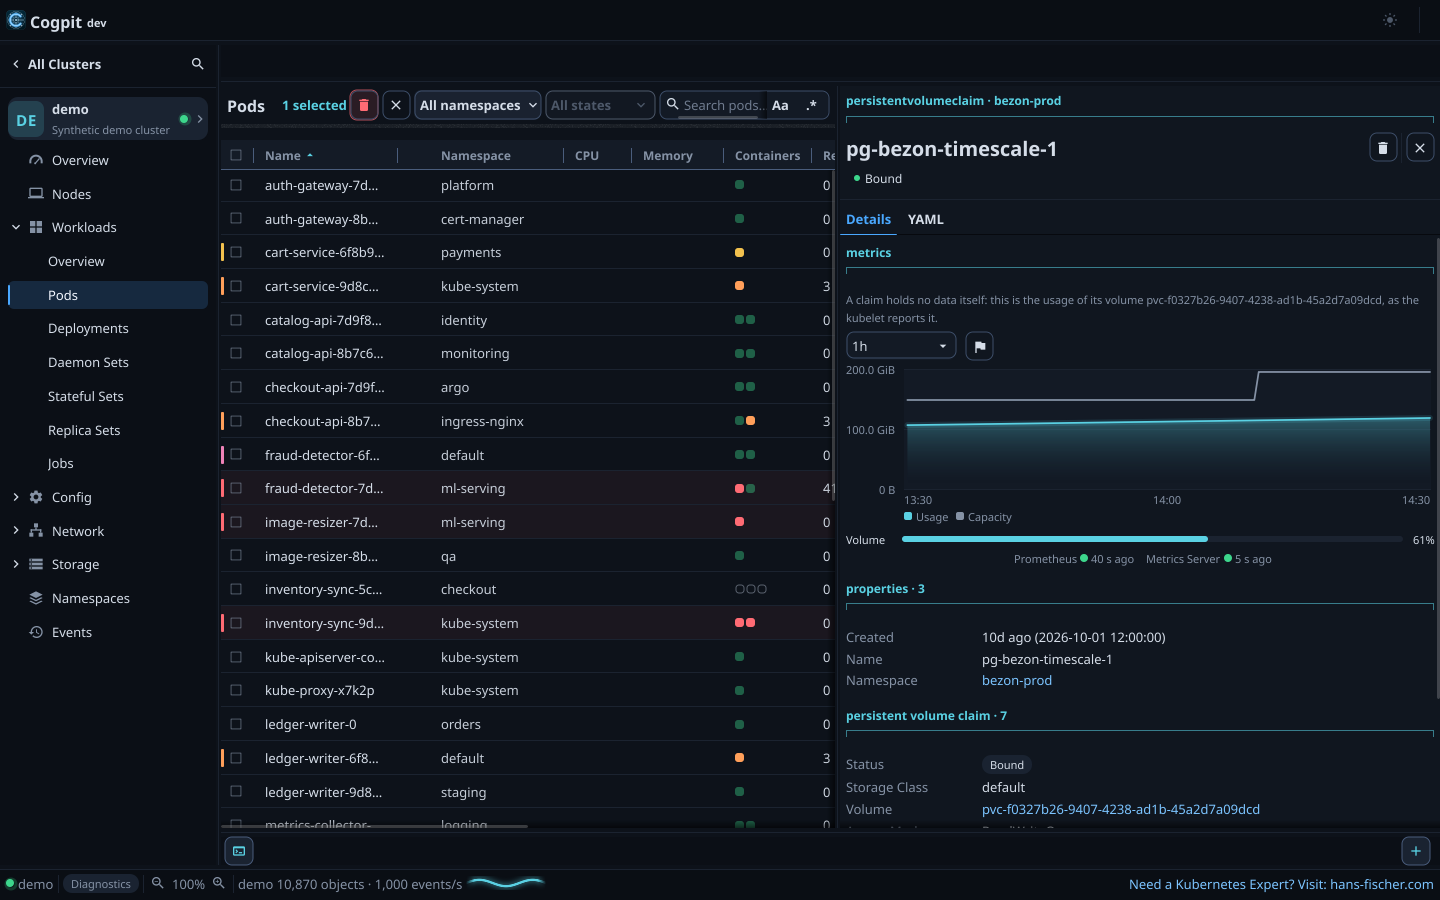
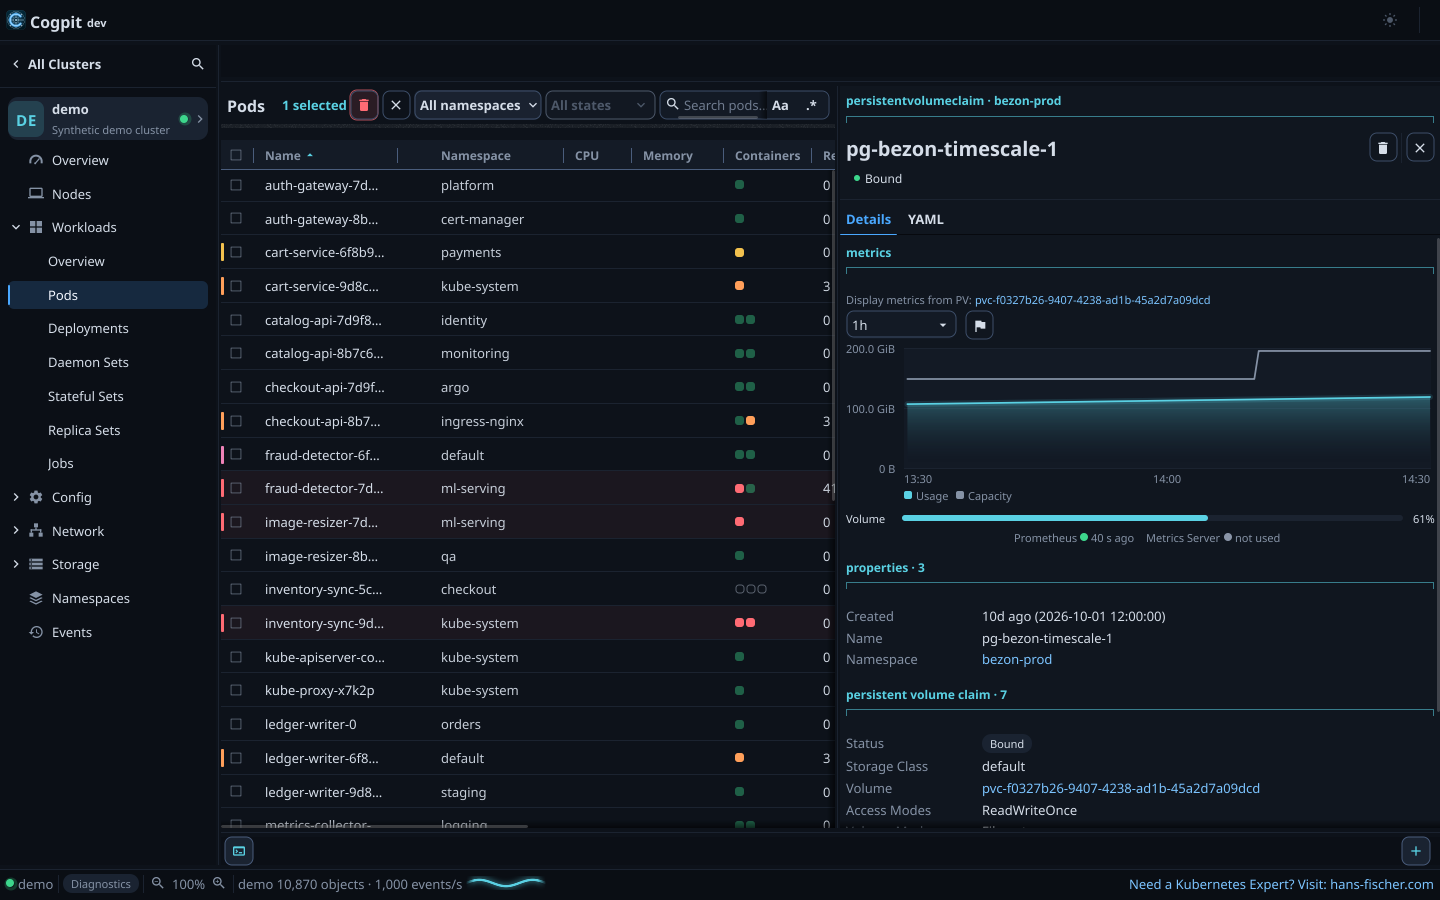
feat(volumes): the line above a volume's chart names the other object as a link, the Metrics Server not used
A claim's drawer says "Display metrics from PV: <volume>", a volume's
"Display metrics from PVC: <namespace>/<claim>", the name a link to its
drawer. The source row under a volume's chart shows the Metrics Server as
"not used" with a grey dot: a claim's scope never asks it, so "waiting"
waited for nothing (ProviderStatus.unused, Hub.ProvidersFor).

diff --git a/internal/ui/fyneui/metricsstatus.go b/internal/ui/fyneui/metricsstatus.go
@@ -22,9 +22,10 @@ import (
 // at the right, each as "<name> ● <when>": the dot in the cluster dots' colours (conndot.go: green
 // while it answers, red while it fails or may not be read, grey while it is not found, a grey ring
 // while nothing has asked it yet) and when it last answered ("30 s ago", "now"), else in a word why
-// not ("not answering", "no permission", "not found", "waiting"). Where it runs, what it serves
-// now, the last good answer and the last failure (a class, never a response body) are in each
-// one's tooltip. While one is not reachable its part of the row links to its section of Cluster
+// not ("not answering", "no permission", "not found", "waiting"), or "not used" with a grey dot
+// where the charts never ask it (the Metrics Server under a volume's: it measures no volume). Where
+// it runs, what it serves now, the last good answer and the last failure (a class, never a response
+// body) are in each one's tooltip. While one is not reachable its part of the row links to its section of Cluster
 // Settings (D-87): "Set its address…" for a Prometheus not found, "Settings…" otherwise; while both
 // answer the row holds nothing more. Before 2026-10-18 there were a source line in prose with the
 // Prometheus's namespace and service as links, a line per provider and a "Prometheus…" button;
@@ -162,9 +163,12 @@ var (
 )
 
 // providerDot is a metrics provider's dot: answering, failing (not answering, no permission), not
-// found, or not asked yet.
-func providerDot(s metrics.Status) dotLook {
-	switch s {
+// found or not used by these charts, or not asked yet.
+func providerDot(ps metrics.ProviderStatus) dotLook {
+	if ps.Unused {
+		return dotAbsent
+	}
+	switch ps.Status {
 	case metrics.StatusAvailable:
 		return dotAnswering
 	case metrics.StatusUnavailable, metrics.StatusForbidden:
@@ -262,6 +266,9 @@ func shortProviderName(label string) string {
 
 // providerWhen is the word after a provider's dot: when it last answered, else why not.
 func providerWhen(ps metrics.ProviderStatus, now time.Time) string {
+	if ps.Unused {
+		return "not used"
+	}
 	switch ps.Status {
 	case metrics.StatusAvailable:
 		if ps.LastOK.IsZero() {
@@ -278,9 +285,13 @@ func providerWhen(ps metrics.ProviderStatus, now time.Time) string {
 	return "waiting"
 }
 
-// providerLink is the link a provider not reachable offers to its settings, "" while it answers or
-// is not asked yet (WF25): a Prometheus not found by name needs its address.
+// providerLink is the link a provider not reachable offers to its settings, "" while it answers, is
+// not asked yet (WF25) or is not used by these charts: a Prometheus not found by name needs its
+// address.
 func providerLink(ps metrics.ProviderStatus) string {
+	if ps.Unused {
+		return ""
+	}
 	switch ps.Status {
 	case metrics.StatusNotServed:
 		if ps.Provider == metrics.PrometheusID {
@@ -306,22 +317,25 @@ func servesText(serves []string) string {
 }
 
 // providerTip is a provider's tooltip on the row: where it runs, its state, what it serves, the last
-// good answer and the last failure; the times of day in tf, the user's zone and format (D-31).
+// good answer and the last failure (only that it is not used, where it is not); the times of day in tf, the user's zone and format (D-31).
 func providerTip(ps metrics.ProviderStatus, now time.Time, tf model.TimeFormat) string {
 	name := ps.Label
 	if ps.Service != "" {
 		name += " " + ps.Service
 	}
+	if ps.Unused {
+		return name + "\nNot used here: it measures nothing these charts show."
+	}
 	since := func(t time.Time) string { return agoText(now.Sub(t)) }
 	var state string
-	switch ps.Status {
-	case metrics.StatusAvailable:
+	switch {
+	case ps.Status == metrics.StatusAvailable:
 		state = "Found and answering."
-	case metrics.StatusUnavailable:
+	case ps.Status == metrics.StatusUnavailable:
 		state = "Found, but it does not answer: its charts keep what they have."
-	case metrics.StatusForbidden:
+	case ps.Status == metrics.StatusForbidden:
 		state = "The current user may not read it."
-	case metrics.StatusNotServed:
+	case ps.Status == metrics.StatusNotServed:
 		state = "Not found in this cluster."
 	default:
 		state = "Not looked for yet: Cogpit looks for it when a chart needs it."
@@ -475,7 +489,7 @@ func newSourceChip(sh *shell) *sourceChip {
 
 // set shows a provider's state as of now; the same state costs nothing (a poll sets it every 15 s).
 func (c *sourceChip) set(ps metrics.ProviderStatus, now time.Time, tf model.TimeFormat, onLink func(string)) {
-	name, when, look, tip, link := shortProviderName(ps.Label), providerWhen(ps, now), providerDot(ps.Status), providerTip(ps, now, tf), providerLink(ps)
+	name, when, look, tip, link := shortProviderName(ps.Label), providerWhen(ps, now), providerDot(ps), providerTip(ps, now, tf), providerLink(ps)
 	c.onLink = onLink
 	if c.provider == ps.Provider && c.name == name && c.when == when && c.look == look && c.tip == tip && c.link == link {
 		return

diff --git a/internal/ui/fyneui/metricsvolume_test.go b/internal/ui/fyneui/metricsvolume_test.go
@@ -37,8 +37,10 @@ func volumeMetricsFixture(ref model.ObjectRef) *engine.ObjectMetrics {
 	}
 	last := fs[len(fs)-1]
 	vc := pgClaim
+	providers := bothAnswering()
+	providers[1].Unused = true // a claim's chart never asks the Metrics Server
 	return &engine.ObjectMetrics{
-		Ref: ref, Status: metrics.StatusAvailable, Source: promSource, Providers: bothAnswering(),
+		Ref: ref, Status: metrics.StatusAvailable, Source: promSource, Providers: providers,
 		Capabilities: metrics.Capabilities{History: true, Network: true, Filesystem: true},
 		Variants:     []string{engine.VariantFilesystem}, FilesystemSource: metrics.FilesystemUsage,
 		Targets: []engine.MetricsTarget{{Variant: engine.VariantFilesystem, Filesystem: fs, Window: time.Hour, Range: "1h"}},
@@ -48,6 +50,12 @@ func volumeMetricsFixture(ref model.ObjectRef) *engine.ObjectMetrics {
 
 // volumeDrawer opens the claim's drawer with the canned numbers, changed by mutate.
 func volumeDrawer(t *testing.T, mode ThemeMode, mutate func(*engine.ObjectMetrics)) (*shell, *metricsPanel, func(string)) {
+	sh, p, png, _, _ := volumeDrawerOf(t, mode, mutate)
+	return sh, p, png
+}
+
+// volumeDrawerOf is volumeDrawer with the fake engine and the main queue.
+func volumeDrawerOf(t *testing.T, mode ThemeMode, mutate func(*engine.ObjectMetrics)) (*shell, *metricsPanel, func(string), *fakeEngine, *mainQueue) {
 	t.Helper()
 	f := kindsFake(t, "pods")
 	f.kinds = append(f.kinds, kindInfo{Kind: "persistentvolumeclaims", Title: "Persistent Volume Claims", APIKind: "PersistentVolumeClaim", Version: "v1", Namespaced: true},
@@ -81,15 +89,18 @@ func volumeDrawer(t *testing.T, mode ThemeMode, mutate func(*engine.ObjectMetric
 		return ok && pm.data != nil && sh.drawer.last != nil
 	})
 	settle(w)
-	return sh, sh.drawer.kept[metricsKey].(*metricsPanel), func(name string) { savePNG(t, w, name) }
+	return sh, sh.drawer.kept[metricsKey].(*metricsPanel), func(name string) { savePNG(t, w, name) }, f, q
 }
 
 func TestClaimDrawerShowsItsVolumesUsage(t *testing.T) {
 	for _, mode := range []ThemeMode{ThemeDark, ThemeLight} {
 		sh, p, png := volumeDrawer(t, mode, nil)
 		texts := drawerTexts(sh)
-		if texts[0] != "Metrics" || !p.intro.Visible() || !strings.HasPrefix(p.intro.text, "A claim holds no data itself: this is the usage of its volume pvc-f0327b26") {
+		if texts[0] != "Metrics" || !p.intro.Visible() || p.intro.text != "Display metrics from PV: "+pgClaim.Volume || p.intro.links()[pgClaim.Volume] == nil {
 			t.Fatalf("the section begins %q, intro %q (shown %v)", texts[:min(3, len(texts))], p.intro.text, p.intro.Visible())
+		}
+		if got := chipTexts(p.status); len(got) != 2 || got[1] != "Metrics Server ● not used" {
+			t.Errorf("source row %q", got)
 		}
 		for id, b := range p.variants {
 			if b.Visible() {
@@ -138,8 +149,19 @@ func TestUnboundClaimSaysSo(t *testing.T) {
 	}
 }
 
+// The volume's name above the chart is a link to the volume's drawer.
+func TestClaimIntroLinksTheVolume(t *testing.T) {
+	_, p, _, f, q := volumeDrawerOf(t, ThemeDark, nil)
+	p.intro.links()[pgClaim.Volume]()
+	q.until(t, "ui.navigate", func() bool { return len(f.callsOf("ui.navigate")) == 1 })
+	if got := decodeParams[refParams](t, f.callsOf("ui.navigate")[0]).Ref; got != (model.ObjectRef{Context: "demo", Kind: "persistentvolumes", Name: pgClaim.Volume}) {
+		t.Errorf("volume link %+v", got)
+	}
+}
+
 func TestVolumeIntroInAVolumesDrawer(t *testing.T) {
-	if got := volumeIntro(&pgClaim, "persistentvolumes"); got != "The usage of this volume, as the kubelet reports it for its claim bezon-prod/pg-bezon-timescale-1." {
-		t.Errorf("intro = %q", got)
+	prefix, link := volumeIntro(&pgClaim, "persistentvolumes")
+	if prefix != "Display metrics from PVC: " || link != (model.ObjectRef{Kind: "persistentvolumeclaims", Namespace: pgClaim.Namespace, Name: pgClaim.Claim}) {
+		t.Errorf("intro = %q %+v", prefix, link)
 	}
 }

diff --git a/internal/ui/fyneui/metricsvolume.go b/internal/ui/fyneui/metricsvolume.go
@@ -8,8 +8,9 @@ import (
 )
 
 // A volume's usage in a persistent volume claim's or a persistent volume's drawer (D-139): above
-// the chart a line that says whose usage it is (a claim holds no data itself; its volume does, and
-// the claim's drawer shows it for completeness); the chart shows the bytes in use, filled, and the
+// the chart a line that names whose usage it is, the name a link to its drawer ("Display metrics
+// from PV: pvc-…" in a claim's, which holds no data itself; "Display metrics from PVC: ns/claim" in a
+// volume's, the claim the kubelet reports it by); the chart shows the bytes in use, filled, and the
 // filesystem's size as an outline over them, so a resize is a step and the fill's height against
 // the outline reads as the fill level; under it a usage bar of the newest point in the disks' look
 // (metricsdisk.go): "Volume", the bar in the table's colours and the share, the numbers in its
@@ -21,31 +22,31 @@ const volumeTitle = "Volume"
 // showIntro shows a volume's line above its chart; nothing for a pod or a node, or before the
 // engine named the volume.
 func (p *metricsPanel) showIntro(m *engine.ObjectMetrics) {
-	text := ""
+	var v *model.VolumeClaim
 	if p.volume && m != nil {
-		text = volumeIntro(m.Volume, p.ref.Kind)
+		v = m.Volume
 	}
-	if w := p.d.contentWidth(); text != p.intro.text || w != p.intro.width {
-		p.intro.text, p.intro.width = text, w
-		p.intro.Refresh()
-	}
-	if text == "" {
+	prefix, link := volumeIntro(v, p.ref.Kind)
+	if prefix == "" {
 		p.intro.Hide()
-	} else {
-		p.intro.Show()
+		return
 	}
+	ctx := p.ref.Context
+	p.intro.setSegs([]lineSeg{{text: prefix}, {text: link.Key(), onTap: func() { p.d.sh.followLink(link, ctx, false) }}})
+	p.intro.Show()
 }
 
-// volumeIntro says whose usage a volume's chart shows: in a claim's drawer its volume's, in a
-// volume's drawer its own, found by its claim.
-func volumeIntro(v *model.VolumeClaim, kind string) string {
+// volumeIntro is the line above a volume's chart: its words, and the object it names as a link. In
+// a claim's drawer the volume, whose usage it is; in a volume's drawer the claim, by which the
+// kubelet reports it. "" for none.
+func volumeIntro(v *model.VolumeClaim, kind string) (string, model.ObjectRef) {
 	switch {
 	case v == nil:
-		return ""
+		return "", model.ObjectRef{}
 	case kind == "persistentvolumes":
-		return "The usage of this volume, as the kubelet reports it for its claim " + v.Namespace + "/" + v.Claim + "."
+		return "Display metrics from PVC: ", model.ObjectRef{Kind: "persistentvolumeclaims", Namespace: v.Namespace, Name: v.Claim}
 	}
-	return "A claim holds no data itself: this is the usage of its volume " + v.Volume + ", as the kubelet reports it."
+	return "Display metrics from PV: ", model.ObjectRef{Kind: "persistentvolumes", Name: v.Volume}
 }
 
 // showVolume shows a volume's usage bar of its newest point, or why there is none; nothing before

diff --git a/internal/ui/fyneui/metricsstatus_test.go b/internal/ui/fyneui/metricsstatus_test.go
@@ -192,13 +192,17 @@ func TestSourceChipStates(t *testing.T) {
 			"Metrics Server ● not found · " + settingsLink, dotAbsent},
 		{metrics.ProviderStatus{Provider: metrics.ServerID, Label: metrics.ServerLabel, Status: metrics.StatusAvailable, LastOK: fixedNow},
 			"Metrics Server ● now", dotAnswering},
+		{metrics.ProviderStatus{Provider: metrics.ServerID, Label: metrics.ServerLabel, Status: metrics.StatusUnknown, Unused: true},
+			"Metrics Server ● not used", dotAbsent},
+		{metrics.ProviderStatus{Provider: metrics.ServerID, Label: metrics.ServerLabel, Status: metrics.StatusUnavailable, LastError: "timeout", Unused: true},
+			"Metrics Server ● not used", dotAbsent},
 	} {
 		c := newSourceChip(&shell{app: a})
 		c.set(tc.ps, fixedNow, germanTime, nil)
 		if c.text() != tc.text || c.look != tc.look || !strings.HasPrefix(c.tip, tc.ps.Label) {
 			t.Errorf("%s %s: %q %+v (tip %q), want %q %+v", tc.ps.Label, tc.ps.Status, c.text(), c.look, c.tip, tc.text, tc.look)
 		}
-		if tc.ps.LastError != "" && !strings.Contains(c.tip, "Last error: "+tc.ps.LastError) {
+		if tc.ps.LastError != "" && !tc.ps.Unused && !strings.Contains(c.tip, "Last error: "+tc.ps.LastError) {
 			t.Errorf("%s: tooltip without the failure's class: %q", tc.ps.Label, c.tip)
 		}
 	}

diff --git a/internal/ui/fyneui/metricsview.go b/internal/ui/fyneui/metricsview.go
@@ -88,7 +88,7 @@ type metricsPanel struct {
 	// the volume's filesystem, no variant buttons, a line above it that says whose usage it shows
 	// (intro) and a usage bar under it (metricsvolume.go).
 	volume bool
-	intro  *paragraph // wrapped at the drawer's width: the volume's name is long
+	intro  *sourceLine // the other object's name a link
 
 	root    *fyne.Container
 	caption *sourceLine // why there are no charts, or nothing while they show (metricssource.go)
@@ -136,8 +136,7 @@ var metricsVariants = []struct {
 func newMetricsPanel(d *drawer, ref model.ObjectRef, volume bool) *metricsPanel {
 	p := &metricsPanel{d: d, ref: ref, perBox: map[string]*chartCtl{}, volume: volume}
 	p.chartCtl = newChartCtl(p, "", false)
-	p.intro = newParagraph("", colorMuted, d.contentWidth())
-	p.intro.size = theme.SizeNameCaptionText
+	p.intro = newSourceLine("", colorMuted, theme.SizeNameCaptionText)
 	p.intro.Hide()
 	if volume {
 		p.variant = variantFilesystem

diff --git a/internal/metrics/volume_test.go b/internal/metrics/volume_test.go
@@ -2,6 +2,7 @@ package metrics_test
 
 import (
 	"context"
+	"maps"
 	"strings"
 	"testing"
 	"time"
@@ -130,6 +131,19 @@ func TestClaimChartAsksPrometheusAlone(t *testing.T) {
 	}
 	if hist := d.h.History(claimPG1); hist == nil || hist.FilesystemSource != metrics.FilesystemUsage {
 		t.Errorf("history = %+v", hist)
+	}
+	// Its status line says the Metrics Server is not used; a pod's says nothing of the kind.
+	for sc, want := range map[metrics.Scope]map[string]bool{
+		claimPG1: {metrics.PrometheusID: false, metrics.ServerID: true},
+		podA:     {metrics.PrometheusID: false, metrics.ServerID: false},
+	} {
+		got := map[string]bool{}
+		for _, ps := range d.h.ProvidersFor(sc) {
+			got[ps.Provider] = ps.Unused
+		}
+		if !maps.Equal(got, want) {
+			t.Errorf("%s: unused %v, want %v", sc.Kind, got, want)
+		}
 	}
 
 	// The next poll asks from the last point on.

diff --git a/internal/metrics/volume.go b/internal/metrics/volume.go
@@ -132,6 +132,18 @@ func (h *Hub) detectNotLive(ctx context.Context) {
 	}
 }
 
+// ProvidersFor is Providers as the status line under sc's charts shows them: a claim's volume never
+// asks the Metrics Server, which measures no volume, so it is unused there.
+func (h *Hub) ProvidersFor(sc Scope) []ProviderStatus {
+	out := h.Providers()
+	if sc.Kind == KindClaims {
+		for i := range out {
+			out[i].Unused = out[i].Provider == ServerID
+		}
+	}
+	return out
+}
+
 // volumeMissingLocked is a claim scope's state when Prometheus did not answer: Prometheus's own
 // state when it was looked for and is forbidden or does not answer, else not served.
 func (h *Hub) volumeMissingLocked() State {

diff --git a/internal/metrics/status.go b/internal/metrics/status.go
@@ -54,6 +54,9 @@ type ProviderStatus struct {
 	// Serves is what it serves now: "history", "live", "network", "filesystem"; empty while it
 	// serves nothing (not found, failing, or not needed).
 	Serves []string `json:"serves,omitempty"`
+	// Unused says the charts the status line is under never ask it, whatever its state: the
+	// Metrics Server under a volume's (ProvidersFor).
+	Unused bool `json:"unused,omitempty"`
 }
 
 // Identified is a Detector that knows which provider it looks for, so that the status line can name

diff --git a/internal/engine/volumemetrics.go b/internal/engine/volumemetrics.go
@@ -96,7 +96,7 @@ func (s *Session) volumeMetrics(b *Backend, p *model.KindProfile, ref model.Obje
 		// Not polled yet: the hub's state is then the providers', not the volume's.
 		out.Status, out.Message, out.Source = metrics.StatusUnknown, "", ""
 	}
-	out.Providers = b.Metrics.Providers()
+	out.Providers = b.Metrics.ProvidersFor(scope)
 	if out.Status == metrics.StatusAvailable {
 		out.Message = ""
 		out.Capabilities = b.Metrics.Capabilities()

diff --git a/docs/developer/decisions.md b/docs/developer/decisions.md
@@ -3319,7 +3319,8 @@ right of it, any other provider after them; where they do not fit side by side t
 
 - **Dot and word**, in the cluster dots' colours: green and the age of the last answer as the
   charts' hover writes ages ("now", "30 s ago"); red and "not answering" or "no permission"; grey
-  and "not found"; a grey ring and "waiting" while not asked yet. Cluster Settings' integration dots
+  and "not found"; a grey ring and "waiting" while not asked yet; grey and "not used" where the
+  charts never ask it (the Metrics Server under a volume's, D-139). Cluster Settings' integration dots
   ([D-87](#d-87-cluster-settings-the-integrations-under-a-divider-a-section-each-metrics-their-consumer))
   use the same colours.
 - **Tooltip:** where it runs, its state, what it serves, the last good answer and the last failure
@@ -5561,6 +5562,14 @@ revision) the details below
 A persistent volume claim's drawer and a persistent volume's drawer have a Metrics section while the
 two are bound: what the user sees, [usage](usage.md#a-volumes-usage). A claim holds no data itself;
 the section says it shows its volume's usage, and the volume's drawer shows the same numbers.
+
+- **Line above the chart:** "Display metrics from PV: <volume>" in a claim's drawer, "Display
+  metrics from PVC: <namespace>/<claim>" in a volume's, the name a link to that object's drawer, one
+  caption line cut with an ellipsis where the drawer is narrow (the owner's wording; the PVC form is
+  the lead's, open to revision).
+- **Source row:** the Metrics Server shows "not used" with a grey dot and no link, whatever its
+  state elsewhere: a claim's scope never asks it (`ProviderStatus.unused`, `Hub.ProvidersFor`), and
+  "waiting" would wait for nothing.
 
 - **Source:** the kubelet's volume gauges through the cluster's Prometheus,
   `kubelet_volume_stats_used_bytes`, `_capacity_bytes` and `_available_bytes`, matched by

diff --git a/docs/developer/usage.md b/docs/developer/usage.md
@@ -1348,8 +1348,9 @@ a report names with a violation
 
 A bound persistent volume claim's drawer shows how full its volume is, in a Metrics section above
 Properties ([D-139](decisions.md#d-139-a-volumes-usage-in-its-claims-and-its-own-drawer)). A claim
-holds no data itself; the line above the chart says the numbers are its volume's. The volume's own
-drawer shows the same numbers, found by its claim.
+holds no data itself: the line above the chart, "Display metrics from PV: pvc-…", names the volume
+whose numbers they are, the name a link to its drawer. The volume's own drawer shows the same
+numbers, found by its claim: "Display metrics from PVC: namespace/claim", the claim a link.
 
 - **Chart:** the bytes in use and, as an outline over them, the filesystem's size: a resize is a
   step. The time range as on every chart (1h at first, up to 30d); no CPU or Memory buttons.
@@ -1359,7 +1360,8 @@ drawer shows the same numbers, found by its claim.
 - **Where the numbers come from:** the kubelet's volume stats (`kubelet_volume_stats_*`) in the
   cluster's Prometheus. Without Prometheus the section says so. The kubelet reports a volume only
   while a pod mounts it, and only when its driver reports usage (not raw block volumes, some CSI
-  drivers, NFS): then the chart is empty and the note under it says why.
+  drivers, NFS): then the chart is empty and the note under it says why. The source row under the
+  chart says "Metrics Server ● not used": it measures no volume.
 - **Not bound** (Pending, Lost, a Released volume): the section says so and nothing is asked.
 - **Hidden** with Cluster Settings › Metrics › Volumes or Filesystem.
 
